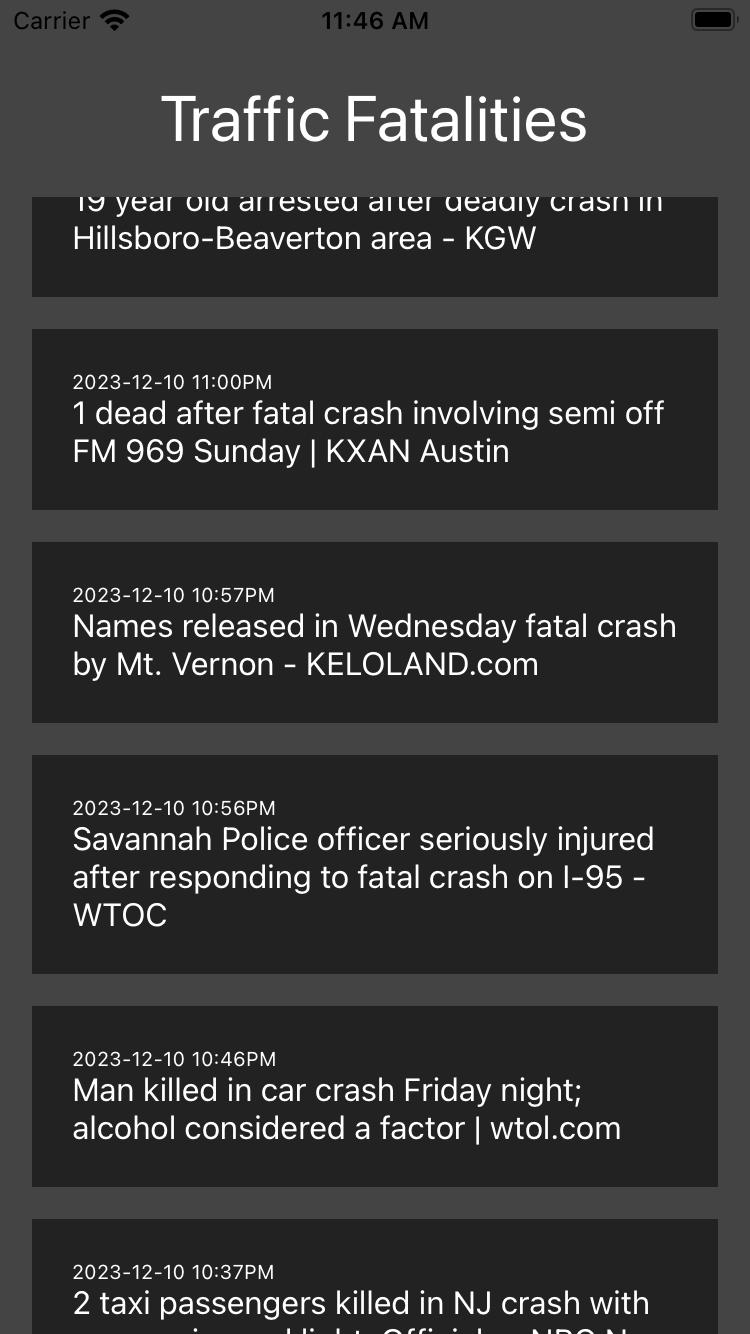
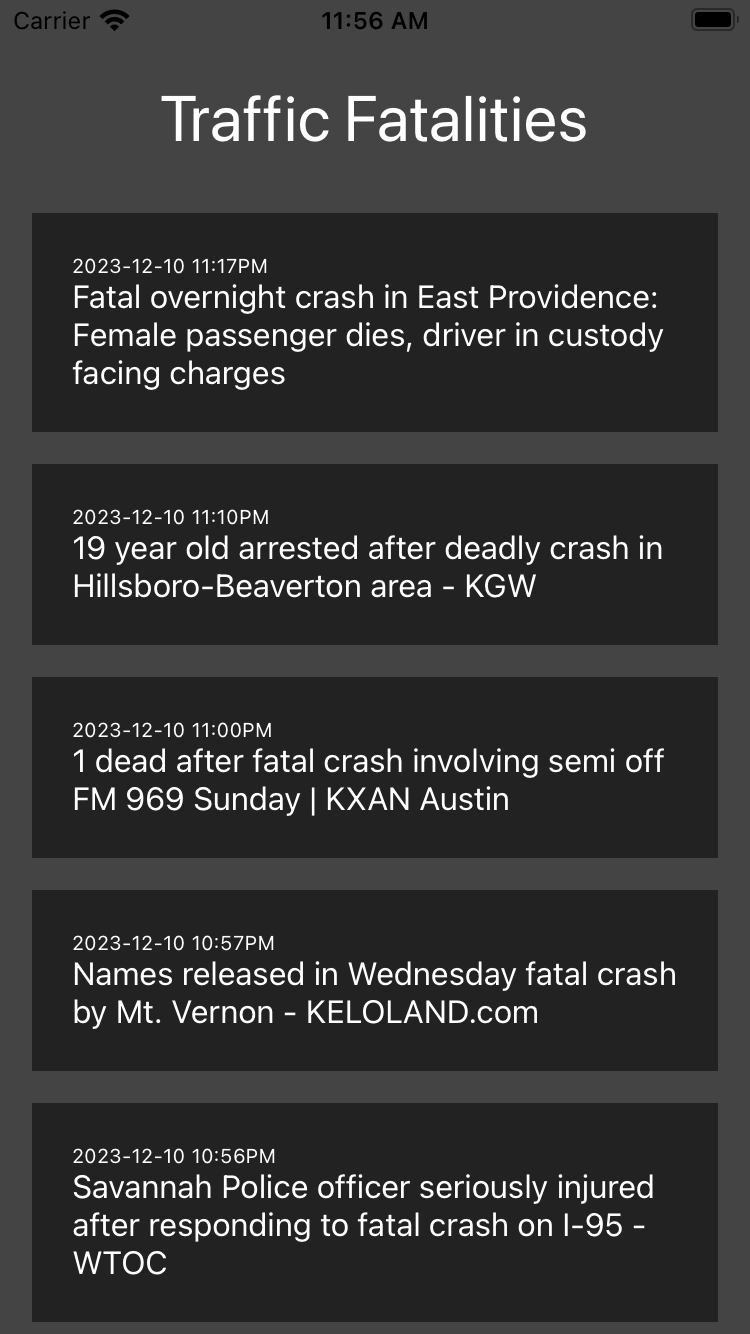
Fix screenshot and embed it in the README

Changed region(s): [[0.0307, 0.1229, 0.9813, 1.0], [0.46, 0.0, 0.4907, 0.0307]]

diff --git a/README.md b/README.md
@@ -1,10 +1,18 @@
-This is a new [**React Native**](https://reactnative.dev) project, bootstrapped using [`@react-native-community/cli`](https://github.com/react-native-community/cli).
+# Traffic Fatalities
 
-# Running the project locally
+This is a [**React Native**](https://reactnative.dev) project, bootstrapped using [`@react-native-community/cli`](https://github.com/react-native-community/cli).
+
+It is my first foray into React Native.
+
+## Screenshot
+
+<img src="screenshot.png" alt="Screen Capture of Traffic Fatalities App" width="200"/>
+
+## Running the project locally
 
 Complete the [React Native - Environment Setup](https://reactnative.dev/docs/environment-setup) instructions up until "Creating a new application" step before proceeding.
 
-## Step 1: Start the Metro Server
+### Step 1: Start the Metro Server
 
 First, you will need to start **Metro**, the JavaScript _bundler_ that ships _with_ React Native.
 
@@ -18,11 +26,11 @@ npm start
 yarn start
 ```
 
-## Step 2: Start the Application
+### Step 2: Start the Application
 
 Let Metro Bundler run in its _own_ terminal. Open a _new_ terminal from the _root_ of the React Native project. Run the following command to start the _Android_ or _iOS_ app:
 
-### For Android
+#### For Android
 
 ```bash
 # using npm
@@ -32,7 +40,7 @@ npm run android
 yarn android
 ```
 
-### For iOS
+#### For iOS
 
 ```bash
 # using npm
